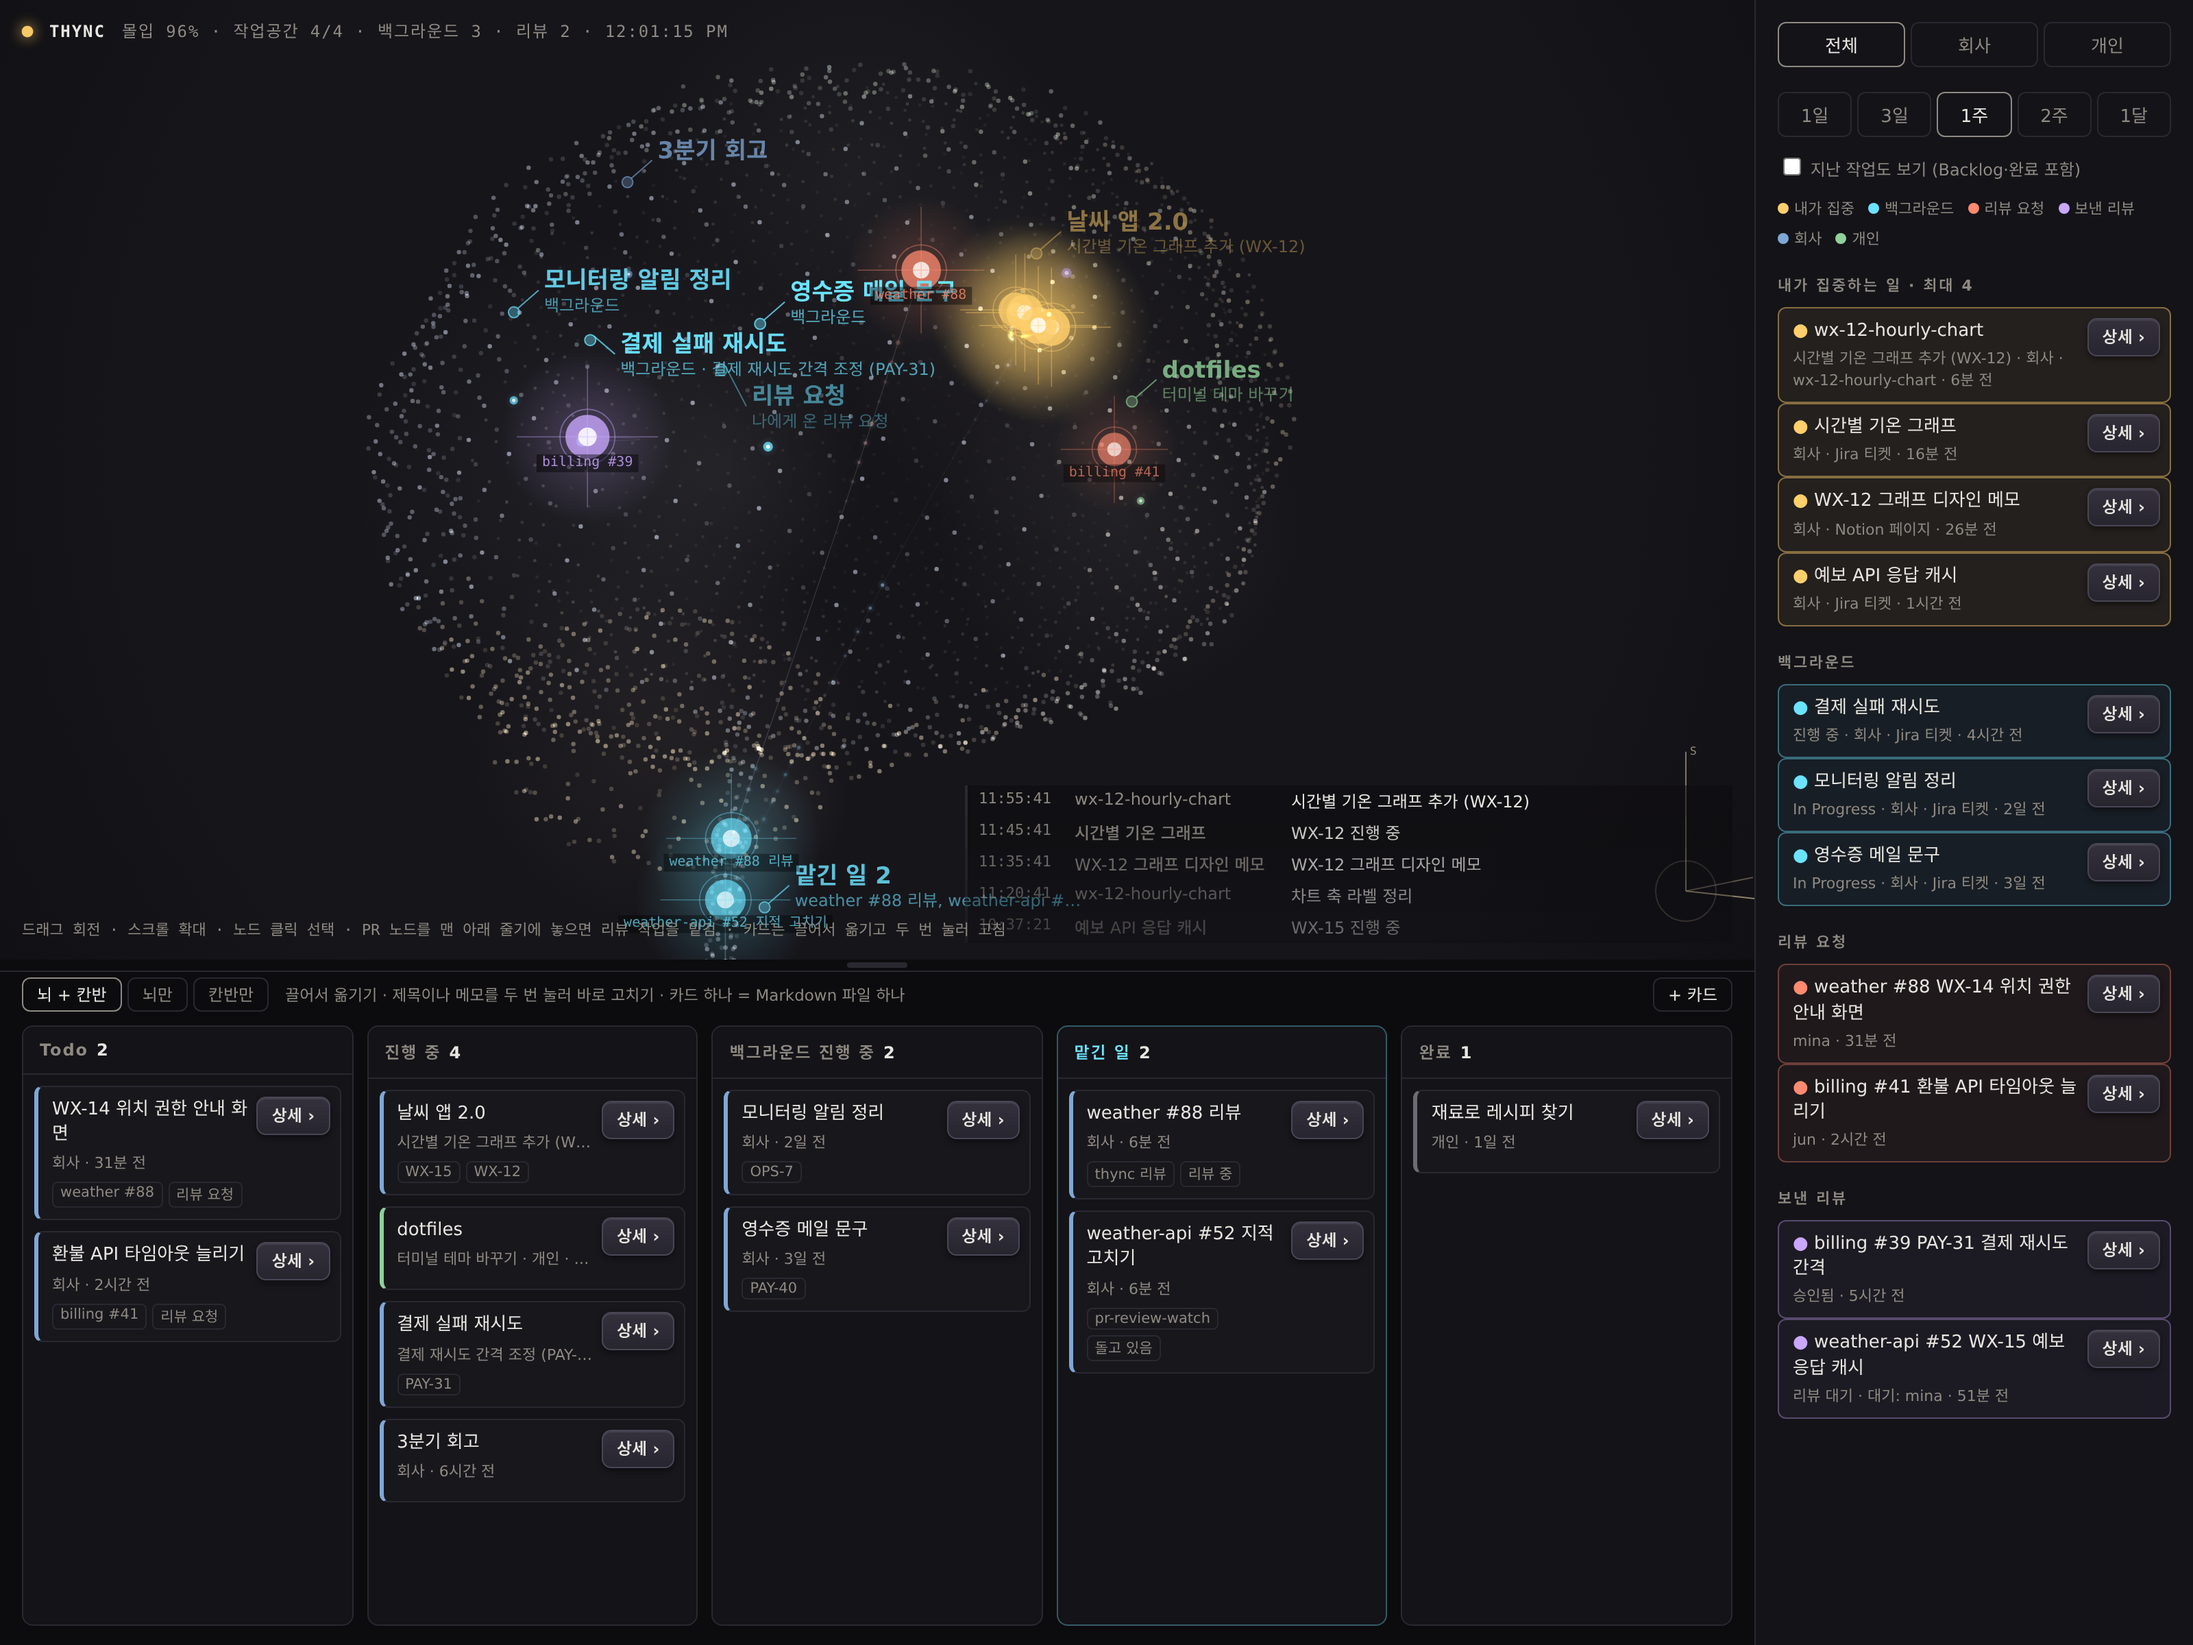
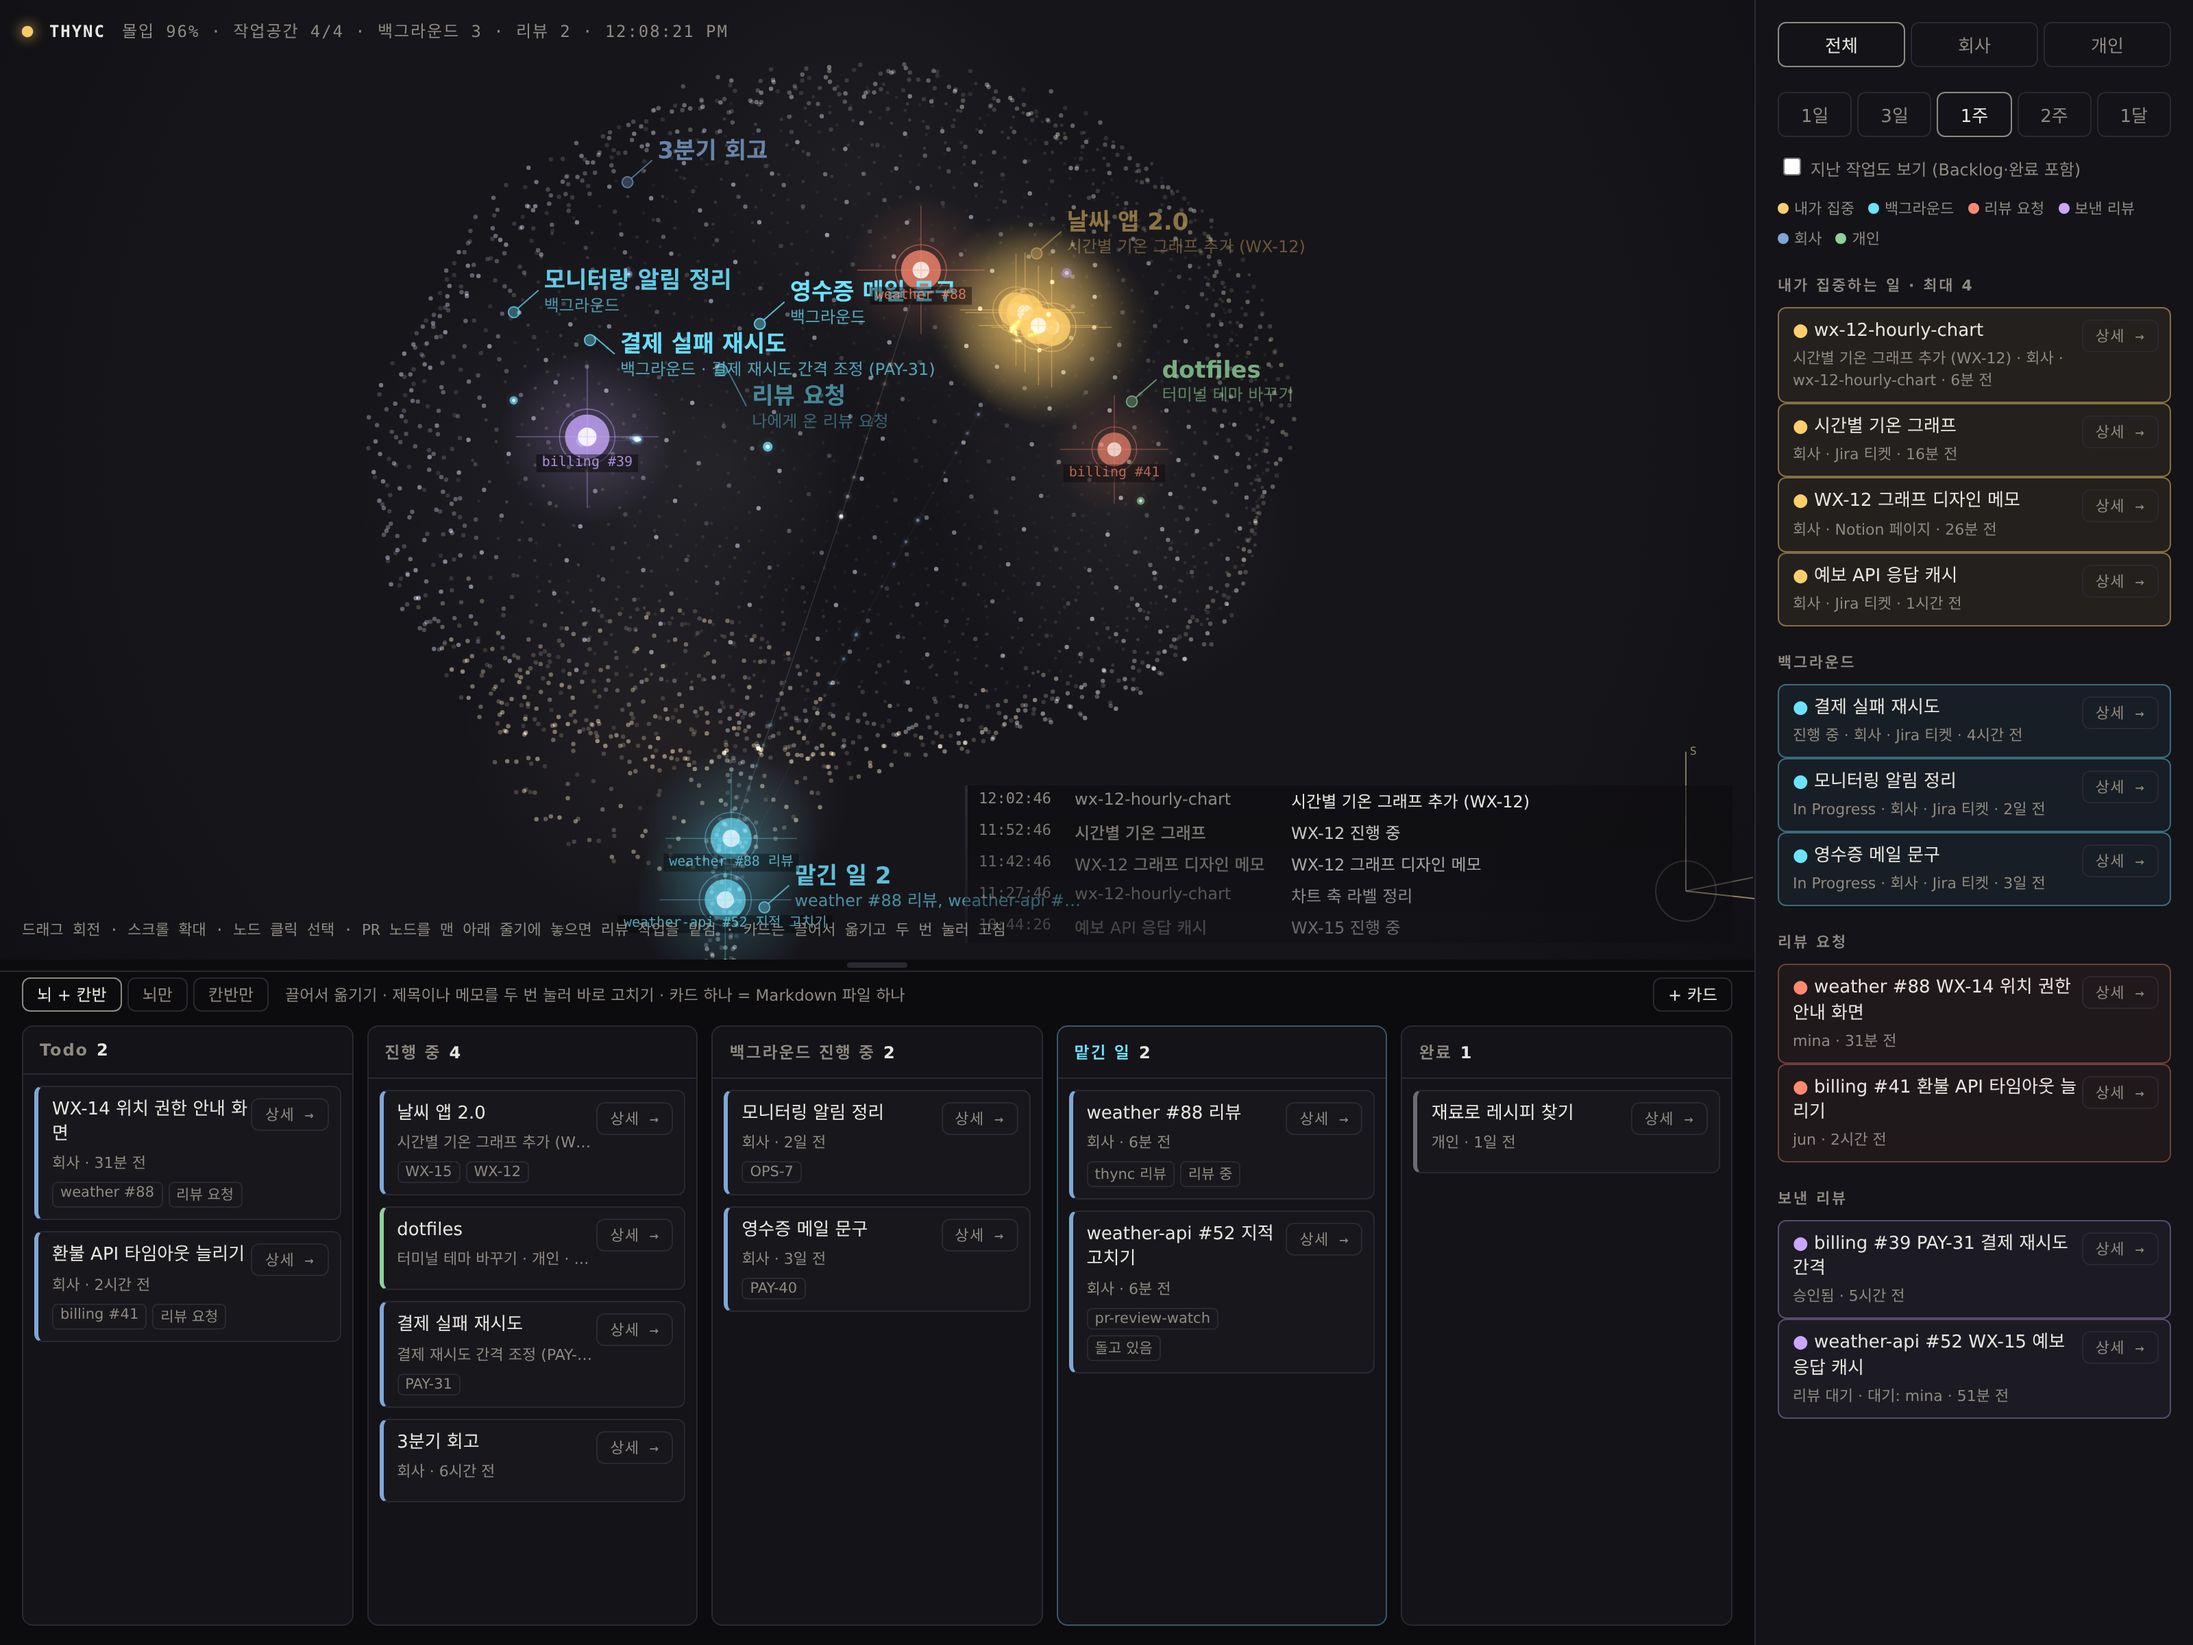
Draw the details button in the same thin-line style as the other controls

diff --git a/web/index.html b/web/index.html
@@ -94,15 +94,16 @@
     li.sent .main::before { content: "● "; color: #c9a7ff; }
     li.focus .main::before, li.running .main::before, li.review .main::before { content: "● "; }
     li.focus .main::before { color: #ffcf6b; } li.running .main::before { color: #6be3ff; } li.review .main::before { color: #ff8a70; }
-    li { position: relative; padding-right: 66px; }
-    button.info { position: absolute; top: 7px; right: 7px; height: 28px; padding: 0 10px; display: inline-flex; align-items: center;
-      gap: 4px; background: linear-gradient(#34313d, #27252e); border: 1px solid #4a4656; border-radius: 7px;
-      box-shadow: 0 1px 0 rgba(255, 255, 255, .08) inset, 0 2px 4px rgba(0, 0, 0, .45);
-      color: var(--ink); font-family: inherit; font-size: 12px; font-weight: 600; line-height: 1; cursor: pointer; transition: background .12s, transform .05s; }
-    button.info:hover { background: linear-gradient(#423e4d, #322f3a); border-color: #6b6580; }
-    button.info:active { transform: translateY(1px); box-shadow: 0 1px 2px rgba(0, 0, 0, .5); }
-    button.info:focus-visible { outline: 2px solid #ffcf6b; outline-offset: 2px; }
-    .card { position: relative; padding-right: 66px; }
+    li { position: relative; padding-right: 64px; }
+    button.info { position: absolute; top: 8px; right: 8px; height: 24px; padding: 0 9px; display: inline-flex; align-items: center;
+      background: none; border: 1px solid var(--line); border-radius: 6px; color: var(--quiet);
+      font: 11px "JetBrains Mono", Menlo, monospace; letter-spacing: .06em; cursor: pointer;
+      transition: color .12s, border-color .12s, background .12s; }
+    li:hover button.info, .card:hover button.info { color: var(--ink); border-color: #4a4656; }
+    button.info:hover { color: var(--glow) !important; border-color: rgba(255, 207, 107, .6) !important;
+      background: rgba(255, 207, 107, .08); }
+    button.info:focus-visible { outline: 1px solid var(--glow); outline-offset: 2px; }
+    .card { position: relative; padding-right: 64px; }
     li.empty { color: var(--quiet); font-size: 12px; cursor: default; }
     .toggle { display: block; font-size: 12px; color: var(--quiet); margin: -6px 0 12px; cursor: pointer; }
     .legend { display: flex; flex-wrap: wrap; gap: 6px 10px; font-size: 11px; color: var(--quiet); }

diff --git a/web/src/panel.ts b/web/src/panel.ts
@@ -17,7 +17,7 @@ export function setStatus(text: string): void {
 }
 
 export function infoButton(id: string): HTMLButtonElement {
-  const btn = Object.assign(document.createElement("button"), { className: "info", textContent: "상세 ›", title: "상세 보기" });
+  const btn = Object.assign(document.createElement("button"), { className: "info", textContent: "상세 →", title: "상세 보기" });
   btn.onclick = (e) => { e.stopPropagation(); focus(id); openDetail(id); };
   btn.ondblclick = (e) => e.stopPropagation();
   return btn;
